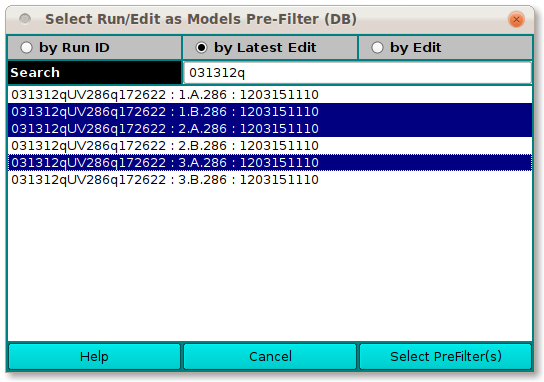
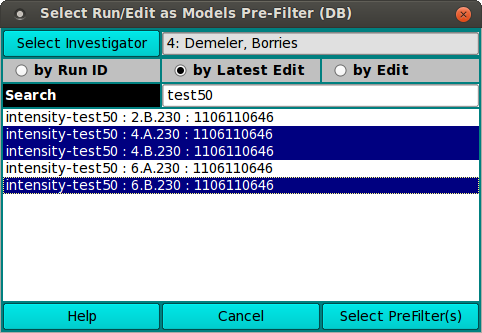
Can change user in prefilter dialog, Reset clears prefilters
git-svn-id: svn://bcf2.uthscsa.edu/ultrascan3/trunk@1325 0b344138-67e3-44e0-be2b-e1ba3e4701c6

diff --git a/gui/us_select_edits.cpp b/gui/us_select_edits.cpp
@@ -40,6 +40,15 @@ qDebug() << "SE:sel_late" << sel_late;
    QGridLayout* top  = new QGridLayout;
    int row           = 0;
 
+   pb_invest           = us_pushbutton( tr( "Select Investigator" ) );
+   QString invnum      = QString::number( US_Settings::us_inv_ID() ) + ": ";
+   QString invusr      = US_Settings::us_inv_name();
+   le_invest           = us_lineedit( invnum + invusr, 0, true );
+   connect( pb_invest, SIGNAL( clicked()    ),
+                       SLOT  ( get_person() ) );
+   top->addWidget( pb_invest, row,   0, 1, 1 );
+   top->addWidget( le_invest, row++, 1, 1, 2 );
+
    QButtonGroup* selButtons = new QButtonGroup( this );
    QGridLayout* rb1 = us_radiobutton( tr( "by Run ID" ),
       rb_runid,   sel_run );
@@ -468,5 +477,26 @@ void US_SelectEdits::pare_to_latest( void )
 
       // Need to repeat above when any removed was later in list
    }
+}
+
+// Investigator button clicked:  get investigator from dialog
+void US_SelectEdits::get_person()
+{
+   int invID     = US_Settings::us_inv_ID();
+   US_Investigator* dialog = new US_Investigator( true, invID );
+
+   connect( dialog, SIGNAL( investigator_accepted( int ) ),
+                    SLOT(   update_person(         int ) ) );
+
+   dialog->exec();
+}
+
+// Slot to handle accept in investigator dialog
+void US_SelectEdits::update_person( int ID )
+{
+   QString number = ( ID > 0 ) ? QString::number( ID ) + ": " : "";
+   le_invest->setText( number + US_Settings::us_inv_name() );
+
+   list_data();
 }
 

diff --git a/gui/us_select_edits.h b/gui/us_select_edits.h
@@ -50,10 +50,13 @@ class US_GUI_EXTERN US_SelectEdits : public US_WidgetsDialog
       QStringList    elabels;     // Keys for editmap
       QStringList    rlabels;     // RunIDs in editmap
 
+      QPushButton*   pb_invest;   // Investigator button
+
       QRadioButton*  rb_runid;    // RunID radio button
       QRadioButton*  rb_latest;   // Latest-edit radio button
       QRadioButton*  rb_alledit;  // All-edits radio button
 
+      QLineEdit*     le_invest;   // Investigator id:name text entry
       QLineEdit*     le_dfilter;  // Data search filter text entry
 
       QLabel*        lb_list;     // Label at top of data list
@@ -72,6 +75,8 @@ class US_GUI_EXTERN US_SelectEdits : public US_WidgetsDialog
       void search         ( const QString& );
       void cancelled      ( void );
       void accepted       ( void );
+      void get_person     ( void );
+      void update_person  ( int  );
       void help           ( void )
       { showHelp.show_help( "select_edits.html" ); };
 

diff --git a/programs/us_pseudo3d_combine/us_pseudo3d_combine.cpp b/programs/us_pseudo3d_combine/us_pseudo3d_combine.cpp
@@ -392,9 +392,11 @@ void US_Pseudo3D_Combine::reset( void )
 
    stop();
    system.clear();
+   pfilts.clear();
    pb_pltall ->setEnabled( false );
    pb_refresh->setEnabled( false );
    pb_rmvdist->setEnabled( false );
+   le_prefilt->setText( tr( "(no prefilter)" ) );
 }
 
 // plot the data
@@ -1292,7 +1294,7 @@ void US_Pseudo3D_Combine::select_prefilt( void )
    QString pfmsg;
 
    if ( nedits == 0 )
-      pfmsg = tr( "(none chosen)" );
+      pfmsg = tr( "(no prefilter)" );
 
    else if ( runsel )
       pfmsg = tr( "Run ID prefilter - %1 edit(s)" ).arg( nedits );
